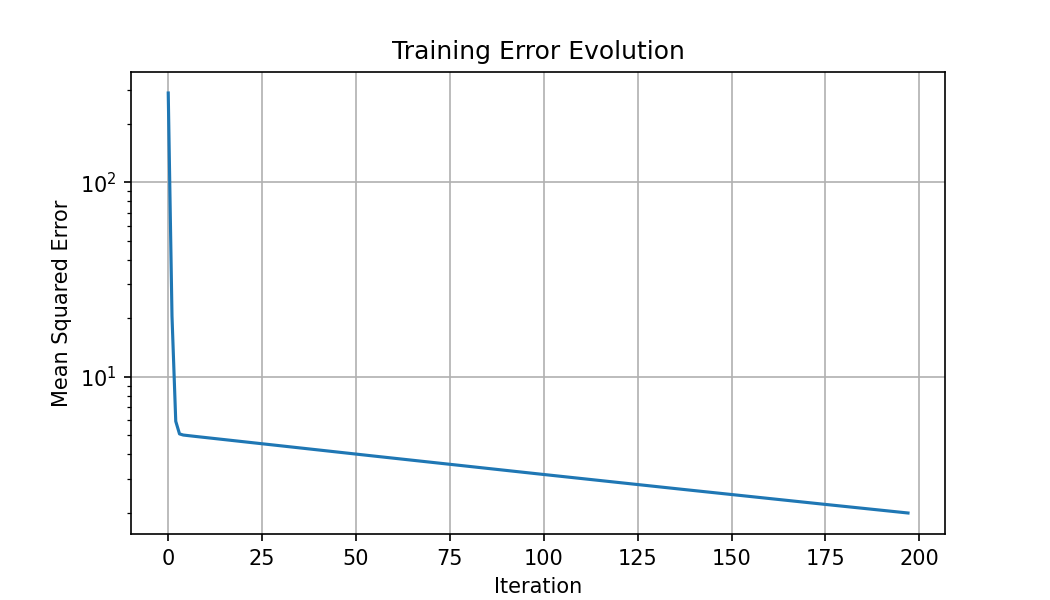
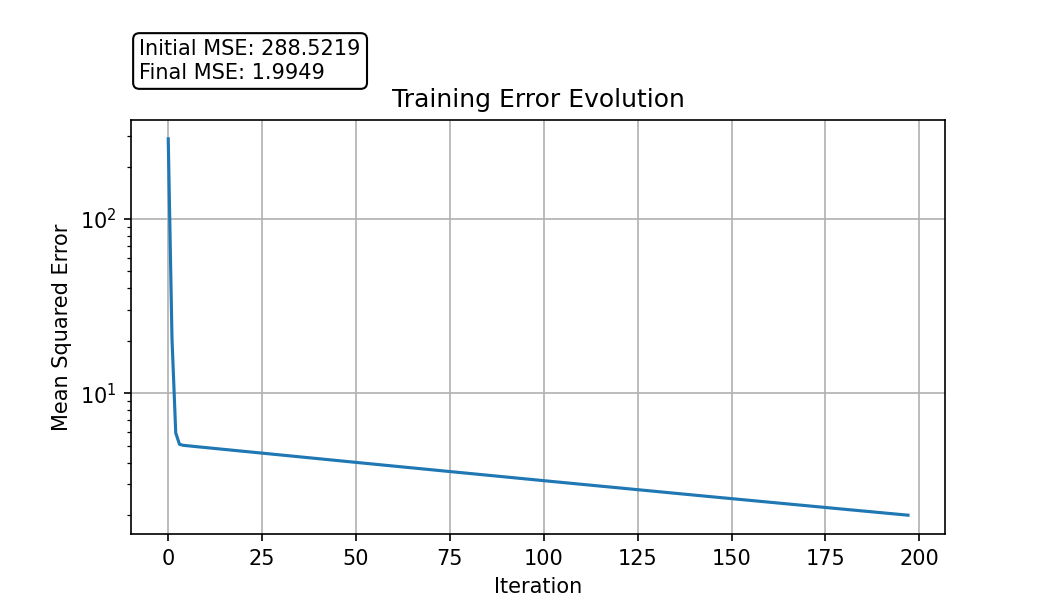
Improved Example

diff --git a/example_linear_regression.py b/example_linear_regression.py
@@ -18,32 +18,60 @@ model = LinearRegression(
 
 model.fit(X, Y)
 
-print(f"\nLearned regression model:Y = {model.coef_[0]:.3f} * X + {model.intercept_:.3f}")
+#equação da regressão aprendida
+#print(f"\nLearned regression model:Y = {model.coef_[0]:.3f} * X + {model.intercept_:.3f}")
 
 #previsão para novos dados
 X_new = np.array([[12], [14], [16]])
 y_pred_new = model.predict(X_new)
 
-#gráfico dos resultados
-plt.figure(figsize=(8, 5))
-plt.gca().set_axisbelow(True)
-plt.scatter(X, Y, label="Training data")
-X_line = np.linspace(0, 16, 100).reshape(-1, 1)
-y_line = model.predict(X_line)
-plt.plot(X_line, y_line, label="Regression Line")
-plt.scatter(X_new, y_pred_new, color="deeppink", s=70, label="New predictions", zorder=3)
-plt.xlabel("X")
-plt.ylabel("Y")
-plt.title("Linear Regression Example")
-plt.legend()
-plt.grid(True)
-plt.savefig("example_linear_regression.png", dpi=150)
-plt.close()
-
 #output novas previsões
 print("\nPredictions for new input values:")
 for i in range(len(X_new)):
     print(f"  For X = {X_new[i, 0]:.1f}, predicted Y = {y_pred_new[i]:.2f}")
+    
+#output iterações + razão de paragem
+print()
+print(f"Iterations: {model.n_iter_}")
+print(f"Stop reason: {model.stop_reason_}")
+
+#gráfico dos resultados
+r2 = model.score(X, Y) #calcular erro
+
+plt.figure(figsize=(9, 5))
+plt.gca().set_axisbelow(True)
+plt.scatter(X, Y, label="Training data")
+
+X_line = np.linspace(0, 16, 100).reshape(-1, 1)
+y_line = model.predict(X_line)
+plt.plot(X_line, y_line, label="Regression Line")
+plt.scatter(
+    X_new,
+    y_pred_new,
+    color="deeppink",
+    s=70,
+    label="New predictions",
+    zorder=3)
+
+info_text = (
+    f"y = {model.coef_[0]:.2f}·X + {model.intercept_:.2f}\n"
+    f"$R^2$ = {r2:.3f}")
+
+plt.text(
+    0.01, 1.10,
+    info_text,
+    transform=plt.gca().transAxes,
+    ha="left",
+    bbox=dict(boxstyle="round", edgecolor="deeppink", facecolor="white"))
+
+plt.xlabel("X")
+plt.ylabel("Y")
+plt.title("Linear Regression Example")
+plt.legend(loc="center left", bbox_to_anchor=(1.02, 0.5))
+plt.grid(True)
+plt.subplots_adjust(right=0.75, top=0.80)
+plt.savefig("example_linear_regression.png", dpi=150)
+plt.close()
     
 #output error inicial vs final
 initial_loss = model.loss_history_[0]
@@ -51,21 +79,30 @@ final_loss = model.loss_history_[-1]
 print("\nTraining error summary:")
 print(f"  Initial MSE: {initial_loss:.4f}")
 print(f"  Final MSE:   {final_loss:.4f}")
-
-
-#output iterações + razão de paragem
-print()
-print(f"Iterations: {model.n_iter_}")
-print(f"Stop reason: {model.stop_reason_}")
     
 #graf da evolução do erro (loss)
+initial_loss = model.loss_history_[0]
+final_loss = model.loss_history_[-1]
+
 plt.figure(figsize=(7, 4))
 plt.plot(model.loss_history_)
+plt.yscale("log")
+
+mse_text = (
+    f"Initial MSE: {initial_loss:.4f}\n"
+    f"Final MSE: {final_loss:.4f}")
+
+plt.text(
+    0.01, 1.10,
+    mse_text,
+    transform=plt.gca().transAxes,
+    ha="left",
+    bbox=dict(boxstyle="round", facecolor="white"))
+
 plt.xlabel("Iteration")
 plt.ylabel("Mean Squared Error")
 plt.title("Training Error Evolution")
-plt.yscale("log")  
 plt.grid(True)
+plt.subplots_adjust(top=0.80)
 plt.savefig("example_loss_curve.png", dpi=150)
 plt.close()
-
